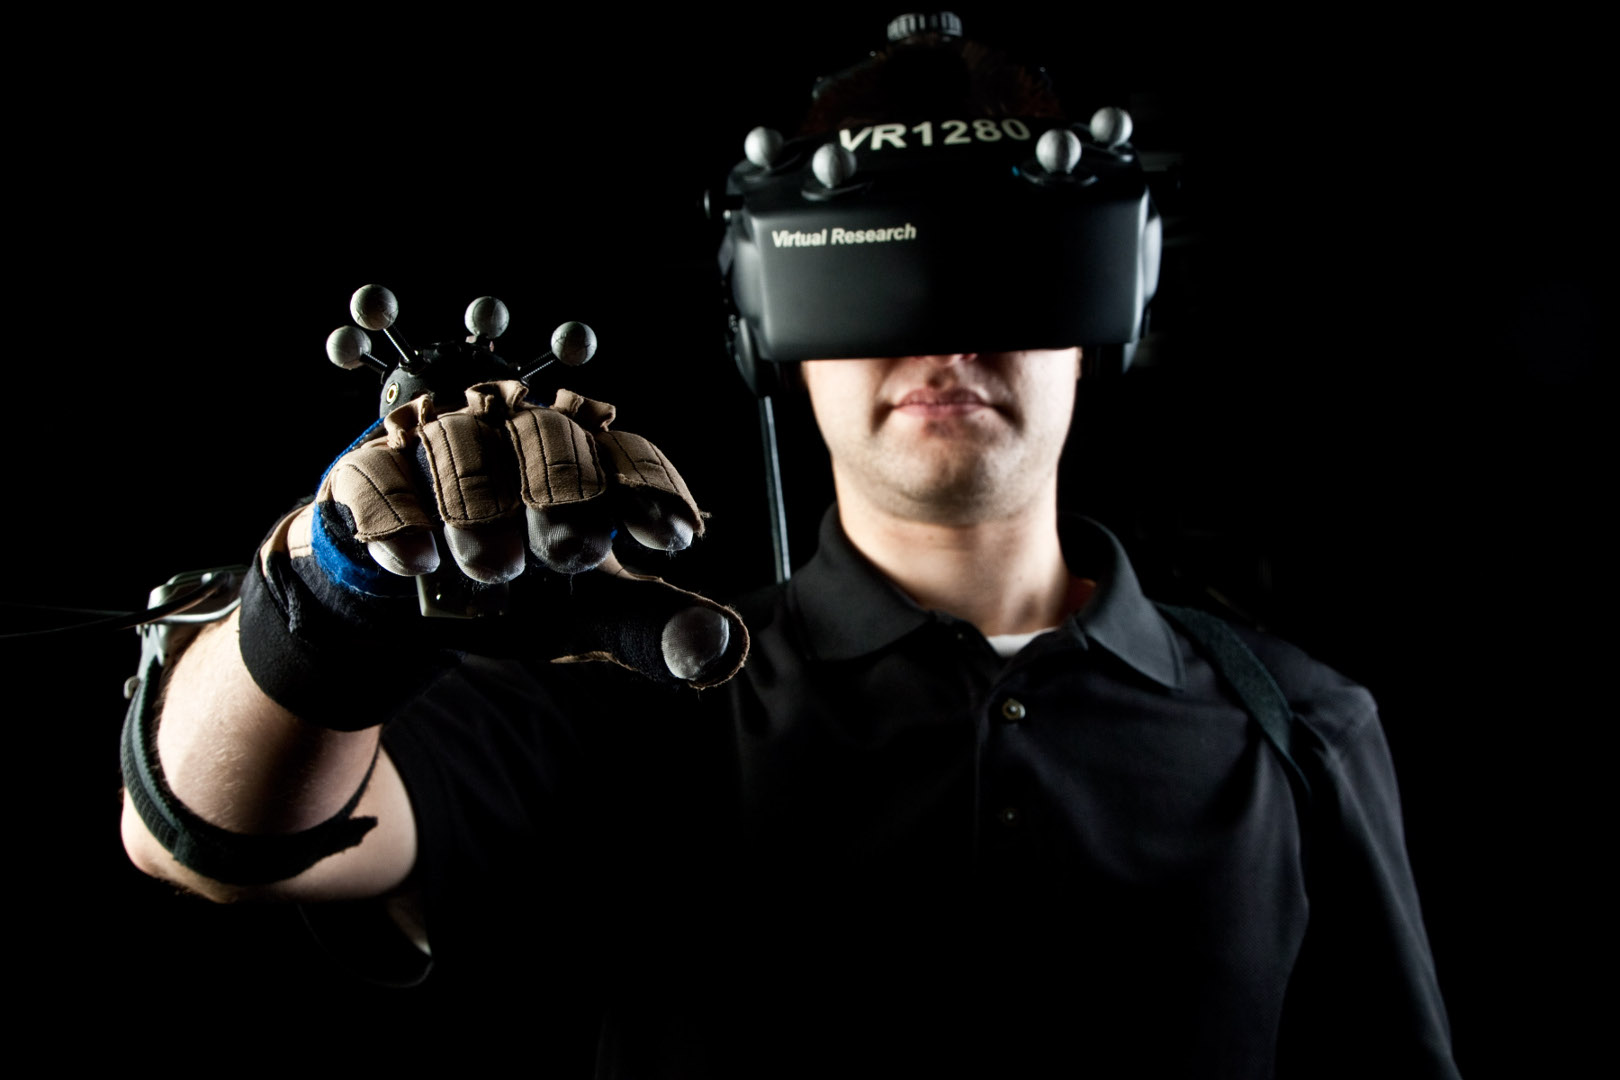
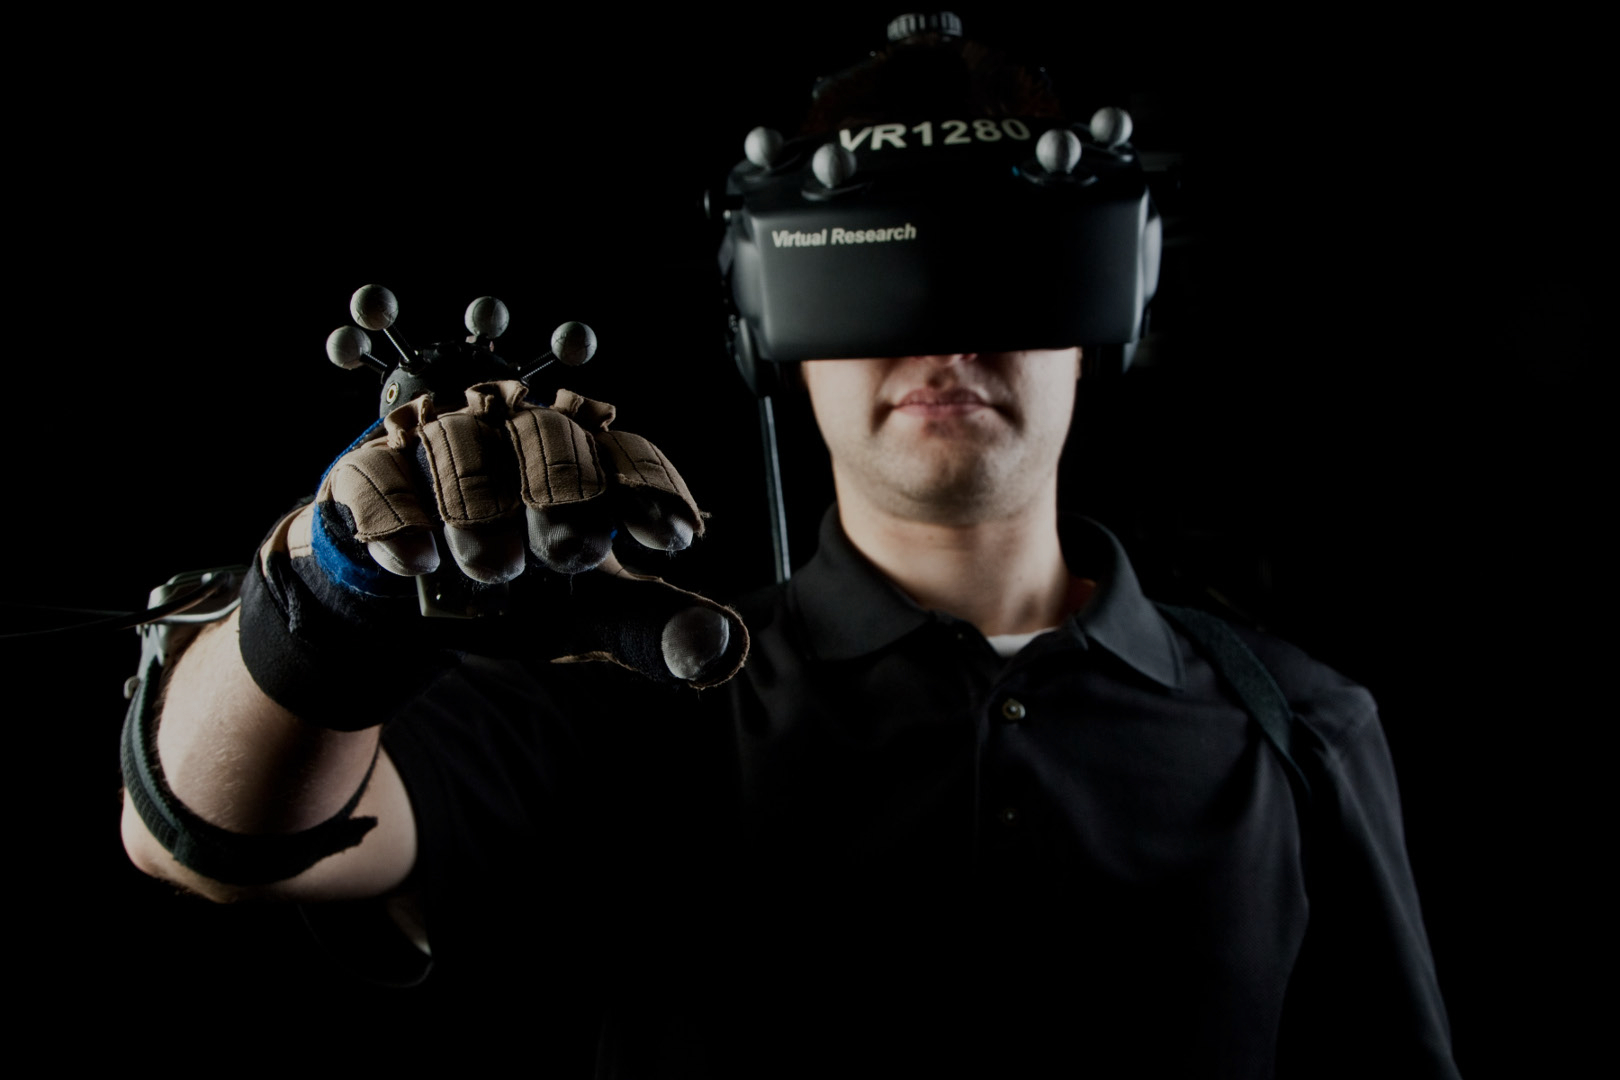
all images are less brighter now; reference html added; reveal.js added

diff --git a/index.html b/index.html
@@ -45,7 +45,7 @@
           <p>Researcher, Developer and Mentor</p>
           <p>&mdash;</p>
           <p>Teaching at Mohol-Nagy Univeristy of Art and Design</p>
-          <p>3D modeling and Rapid Prototyping</p>
+          <p>Consultant and o3D Modeling Specialist</p>
         </section>
         <section>
           <section data-background="img/bg-002-a.jpg">
@@ -82,18 +82,16 @@
           <section data-background="img/bg-004-a.png">
             <h2>The geek artist</h2>
             <p>Is this&nbsp;<i>&ldquo;the new thing&rdquo;</i>&nbsp;?</p>
-            <p class="fragment"><b>Hell no!</b>
+            <div class="fragment">
+              <b>Hell no!</b>
               <blockquote>
-                <p>
                   &ldquo;
                   Invention has a long and important history in the arts.
                   Inventive thinking has always played a vital role in
                   the creative process.
                   &rdquo;
-                  
-                </p>
               </blockquote>
-            </p>
+            </div>
           </section>
           <section data-background="img/bg-004-b.jpg">
             <h2>Tim's Vermeer,<br>the geek</h2>
@@ -112,7 +110,7 @@
         </section>
         <section>
           <section data-background="img/bg-005-a.jpg">
-            <h2>Bleeding edge today:<br>HW & SW combined<br>&mdash;<br></h2>
+            <h2>Bleeding edge today:<br>HW &amp; SW combined<br>&mdash;<br></h2>
             <p>Designers should participate in and</p>
             <p>experiment with these technologies:</p>
             <p class="fragment">3D printing</p>
@@ -141,6 +139,9 @@
         <section>
           <section data-background="img/bg-006-a.jpg">
             <h2>Virtual and/or<br>Augmented Reality<br>&mdash;</h2>
+            <p class="fragment">A second layer on our world.</p>
+            <p class="fragment">Soon enough it will be<br/>an essential layer.</p>
+            <p class="fragment">Give it enough time and<br/>it will be the ultimate layer.</p>
           </section>
           <section data-background-video="video/bg-006-b.mp4,video/bg-006-b.webm">
             <!-- Play the video...-->
@@ -148,47 +149,59 @@
           </section>
           <section data-background="img/bg-006-c.jpg">
             <h2>Not yet fully discovered,<br>tons of potentials<br>&mdash;<br></h2>
+            <p class="fragment">It is something, where we can be the creators<br/>and one of the earliest users at the same time.</p>
+            <p class="fragment">We can, and at some point we <i>have to</i> create worlds!<br/>Even creatures and life itself!</p>
+            <p class="fragment">Can you imagine the complexity of it?</p>
           </section>
           <section data-background="img/bg-006-d.jpg">
             <h2>How is it different than the<br>&ldquo;low-cost 3D printer revolution&rdquo;?<br>&mdash;<br></h2>
-            <p class="fragment">Even at this &ldquo;early&rdquo; stage it is awesome</p>
-            <p class="fragment">Supported by huge companies support</p>
-            <p class="fragment">Supported by the whole game industry</p>
-            <p class="fragment"> </p>
+            <p class="fragment">Even at this &ldquo;early&rdquo; stage it is awesome.</p>
+            <p class="fragment">Supported by huge companies support.</p>
+            <p class="fragment">Supported by the whole game industry.</p>
+            <p class="fragment">Needs way more skills to build one,<br/>cheap replicas are hardly possible.</p>
           </section>
         </section>
         <section>
           <section data-background="img/bg-007-a.jpg">
-            <h2>The era of amazing<br>low cost devices<br>&mdash;            </h2>
+            <h2>The era of amazing<br>low cost devices<br>&mdash;</h2>
+            <p class="fragment">You don't have to, but you can build anything.</p>
+            <p class="fragment">You don't have to, but you can control anything.</p>
+            <p class="fragment">As a designer you can design, build<br/>and make it work just by yourself.</p>
           </section>
           <section data-background="img/bg-007-b.jpg">
             <h2>Plastey<br>&mdash;</h2>
+            <p class="fragment">45-50days experiment.</p>
+            <p class="fragment">Completely a one man show.</p>
+            <p class="fragment">Fully working, has multiplayer features,<br/>undo and redo, save and load, STL export.</p>
+            <p class="fragment">Zoom, rotate, selection, moving selection.</p>
+            <p class="fragment">Free and Open Source software.</p>
           </section>
           <section data-background="img/bg-007-c.jpg">
             <h2>Lessons learnt<br>&mdash;</h2>
+            <p class="fragment">Oculus' 1080p, even a 1440p resolution is not enough.</p>
+            <p class="fragment">LeapMotion in this form is not a fun tool we can work with.</p>
+            <p class="fragment"><b>The effect and experience still blew people's mind.</b></p>
           </section>
         </section>
         <section>
           <section data-background="img/bg-008-a.jpg">
             <h2>Do you speak code?<br>&mdash;<br></h2>
+            <p class="fragment">Well, you should :)</p>
+            <p class="fragment">You need deeper knowledge on the<br/>software and the hardware as well!</p>
           </section>
           <section data-background="img/bg-008-b.jpg">
             <h2>The Zen of Python<br>&mdash;<br></h2>
-            <blockquote style="text-align:justify"><span class="fragment">&#9679; Beautiful is better than ugly.&nbsp;</span><span class="fragment">&#9679; Explicit is better than implicit.&nbsp;</span><span class="fragment">&#9679; Simple is better than complex.&nbsp;</span><span class="fragment">&#9679; Complex is better than complicated.&nbsp;</span><span class="fragment">&#9679; Flat is better than nested.&nbsp;</span><span class="fragment">&#9679; Sparse is better than dense.&nbsp;</span><span class="fragment">&#9679; Special cases aren't special enough to break the rules.&nbsp;</span><span class="fragment">&#9679; Although practicality beats purity.&nbsp;</span><span class="fragment">&#9679; There should be one &mdash; and preferably only one &mdash; obvious way to do it.&nbsp;</span><span class="fragment">&#9679; If the implementation is hard to explain, it's a bad idea.&nbsp;</span><span class="fragment">&#9679; If the implementation is easy to explain, it may be a good idea.</span></blockquote>
-          </section>
-          <section>
-            <h2>Computer is an artform not yet truly discovered!</h2>
-            <p>Bret Victor - don't draw dead fish</p>
+            <blockquote style="text-align:justify"><span class="fragment">&#9679; Beautiful is better than ugly.&nbsp;</span><span class="fragment">&#9679; Explicit is better than implicit.&nbsp;</span><span class="fragment">&#9679; Simple is better than complex.&nbsp;</span><span class="fragment">&#9679; Complex is better than complicated.&nbsp;</span><span class="fragment">&#9679; Sparse is better than dense.&nbsp;</span><span class="fragment">&#9679; Special cases aren't special enough to break the rules.&nbsp;</span><span class="fragment">&#9679; Although practicality beats purity.&nbsp;</span><span class="fragment">&#9679; There should be one &mdash; and preferably only one &mdash; obvious way to do it.&nbsp;</span><span class="fragment">&#9679; If the implementation is hard to explain, it's a bad idea.&nbsp;</span><span class="fragment">&#9679; If the implementation is easy to explain, it may be a good idea.</span></blockquote>
           </section>
         </section>
         <section>
           <section>
-            <h2>Summary<br>&mdash;<br></h2>
-            <p class="fragment">Be a geek!</p>
-            <p class="fragment">Experiment!</p>
-            <p class="fragment">Learn to code!</p>
-            <p class="fragment">Create complex objects!</p>
-            <p class="fragment"> </p>
+            <h1>Summary<br>&mdash;<br></h2>
+            <h3 class="fragment">Be a geek!</h3>
+            <h3 class="fragment">Experiment a lot!</h3>
+            <h3 class="fragment">Learn to code!</h3>
+            <h3 class="fragment">Learn the hardware!</h3>
+            <h3 class="fragment">Create complex objects!</h3>
           </section>
           <section data-background="img/bg-009-b.jpg">
             <h2 id="fg-yellow-2">Kudos</h2>
